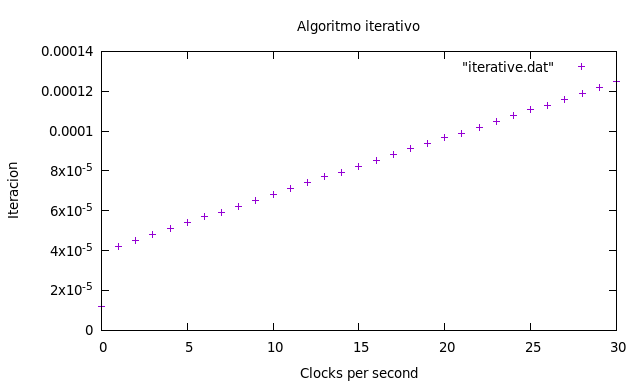
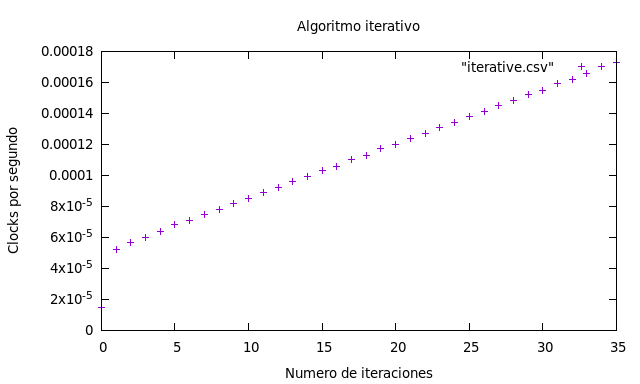
Ya está listo el metodo iterativo

diff --git a/ej1/iterative.c b/ej1/iterative.c
@@ -4,17 +4,17 @@ int main(){
   clock_t start, stop;
   double time;
   unsigned long t;
-  FILE* fp = fopen("iterative.dat", "at");
+  FILE* fp = fopen("iterative.csv", "at");
   int counter = 0;
-  int n = 0, num;
-  int init = 0, second = 1;
+  long long int init = 0, second = 1, num;
+  int n = 0;
   printf("Ingresa n: ");
   scanf("%d", &n);
   printf("0, 1, ");
   start = clock();
   while(init <= n){
     num = init + second;
-    printf("%d, ", num);
+    printf("%lld, ", num);
     init = second;
     second = num;
     stop = clock();

diff --git a/ej1/recursive.c b/ej1/recursive.c
@@ -17,9 +17,8 @@ int main(){
 
 void fibo(int init, int second, int n, int counter, clock_t start){
    if(init <= n){
-     clock_t  stop;
-     unsigned long t;
-     FILE* fp = fopen("recursive.dat", "at");
+     clock_t  stop; 
+     FILE* fp = fopen("recursive.csv", "at");
      int numero = init + second;
      printf("%d, ", numero);
      init = second;
